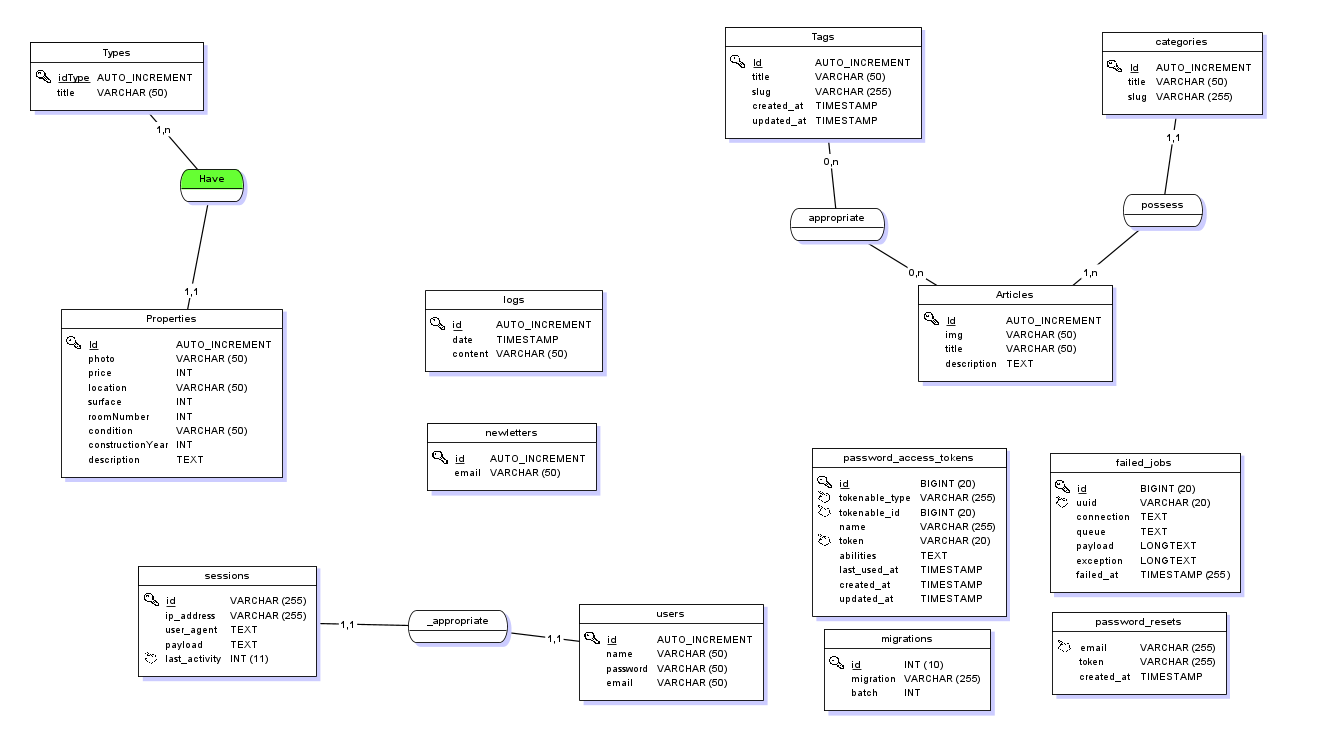
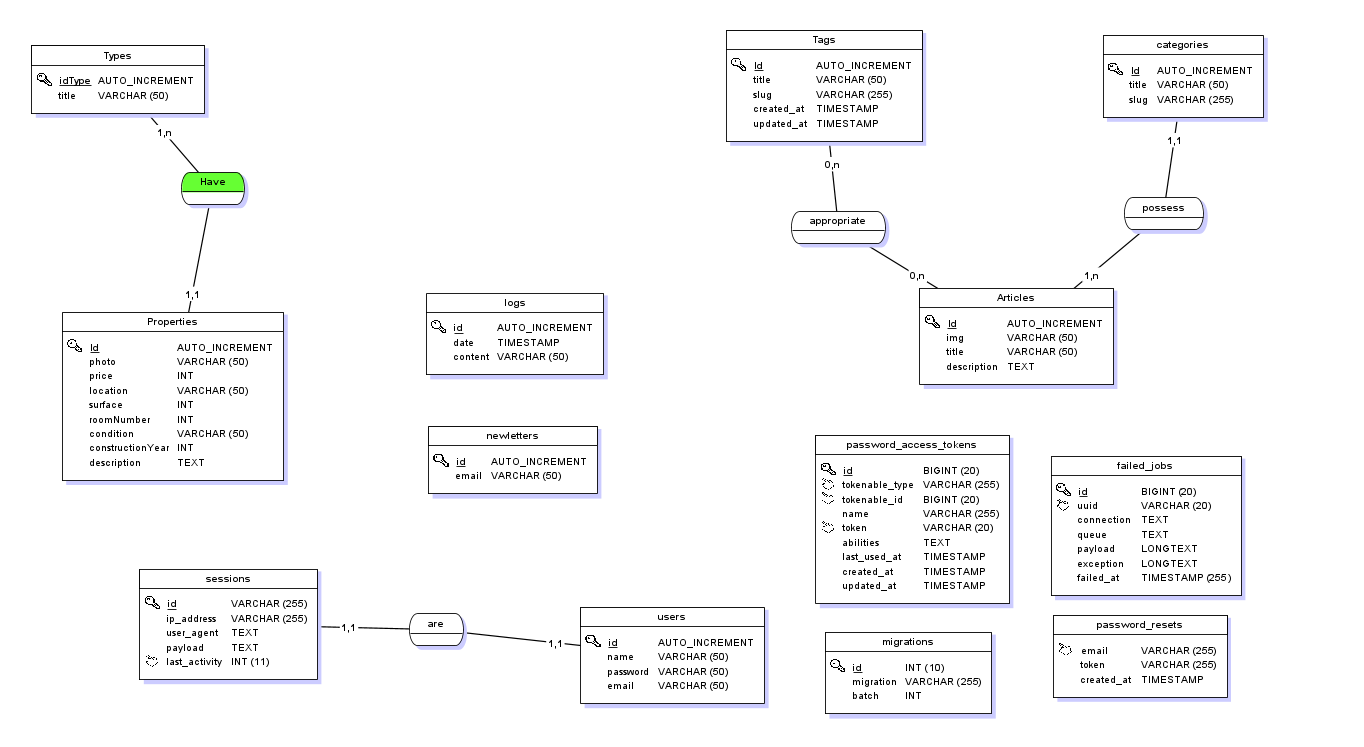
mise a jour MCD/MLD

diff --git a/database/migrations/2021_01_13_105943_create_appropriate_table.php b/database/migrations/2021_01_13_105943_create_appropriate_table.php
@@ -14,8 +14,8 @@ class CreateAppropriateTable extends Migration
     public function up()
     {
         Schema::create('appropriate', function (Blueprint $table) {
-            $table->id();
-            $table->timestamps();
+            $table->foreignId('id_tag');
+            $table->foreignId('id_article');
         });
     }
 

diff --git a/database/migrations/2021_01_13_110005_create_articles_table.php b/database/migrations/2021_01_13_110005_create_articles_table.php
@@ -15,7 +15,9 @@ class CreateArticlesTable extends Migration
     {
         Schema::create('articles', function (Blueprint $table) {
             $table->id();
-            $table->timestamps();
+            $table->string('img');
+            $table->string('title');
+            $table->text('description');
         });
     }
 
